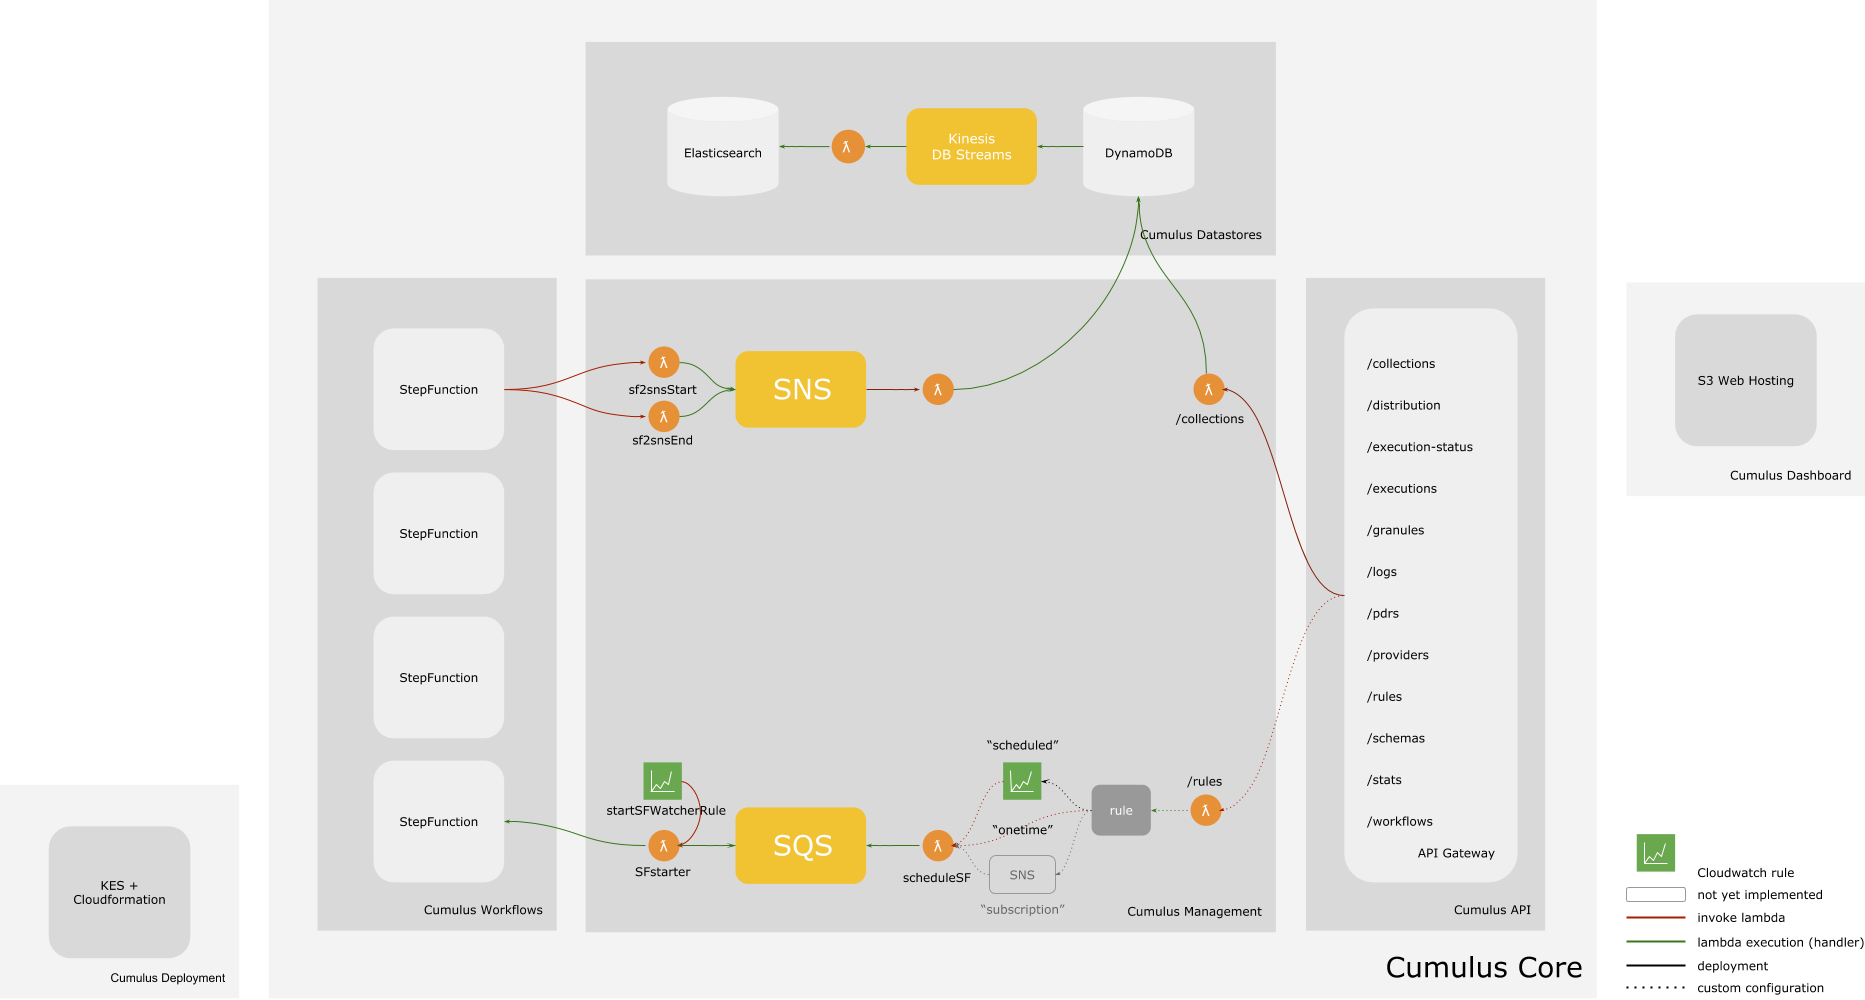
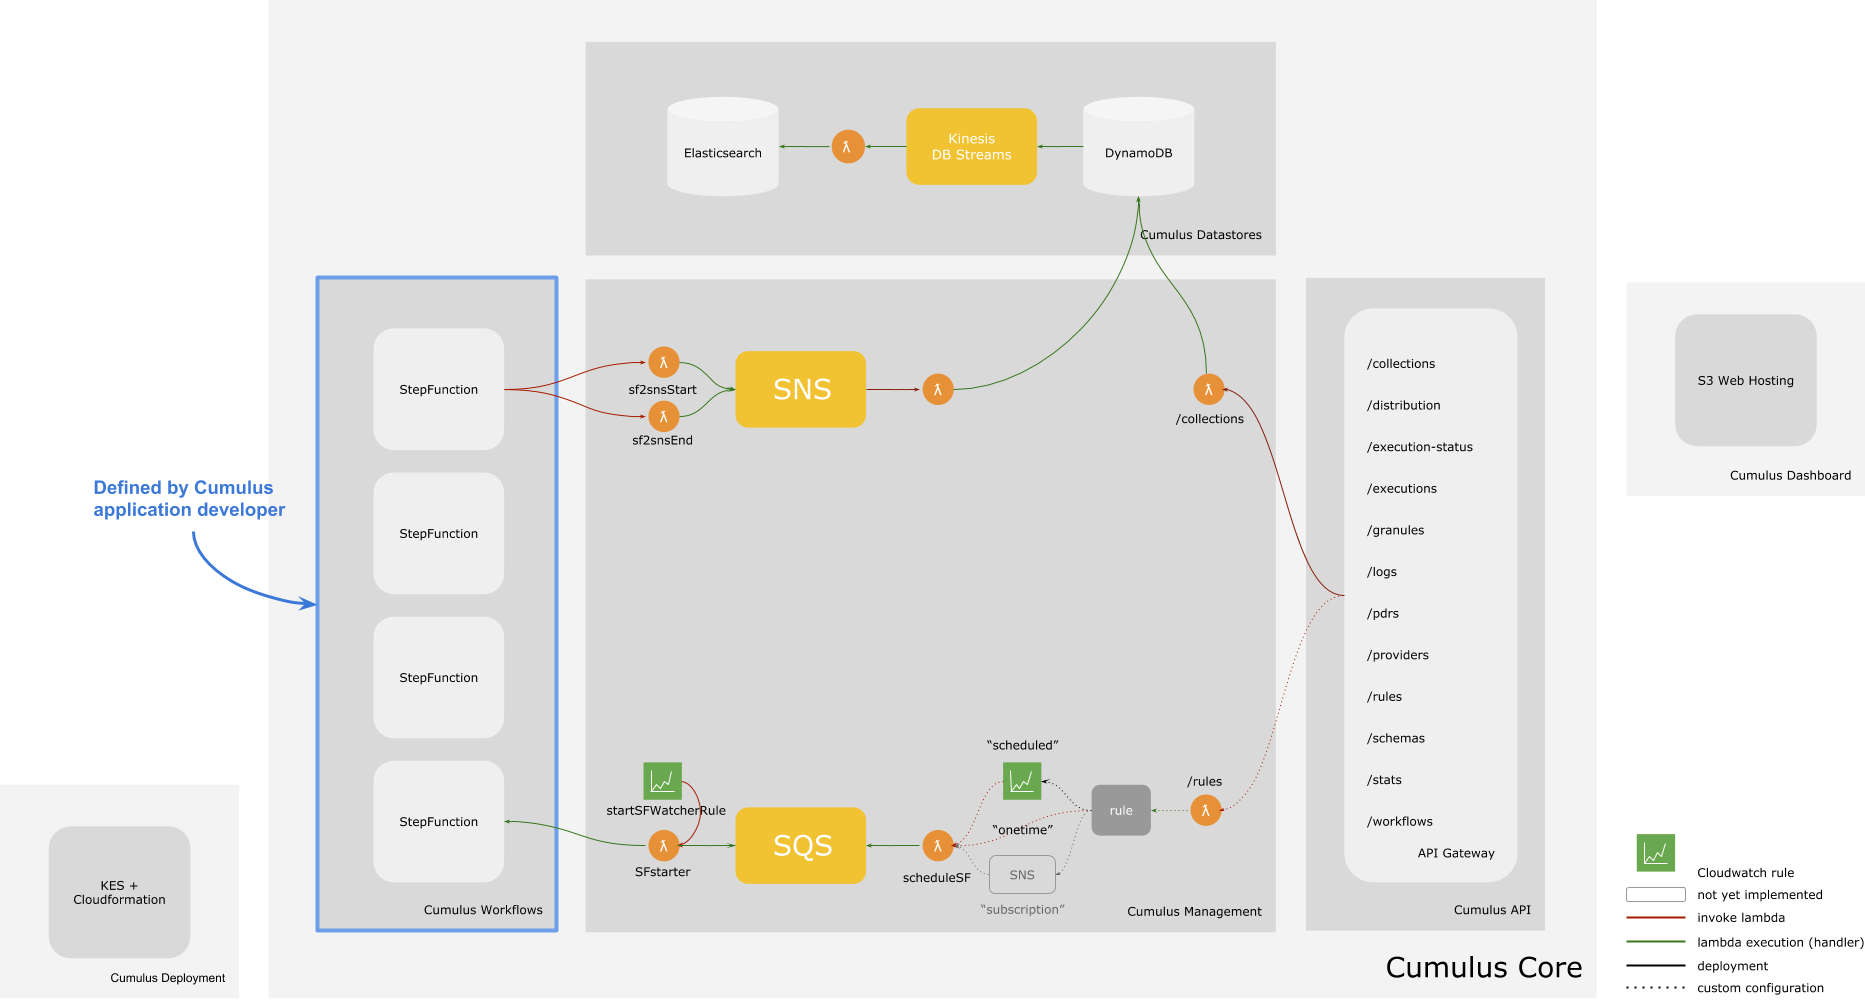
Add more basic annotation to arch diagram

diff --git a/docs/architecture.md b/docs/architecture.md
@@ -1,13 +1,26 @@
 # Cumulus Architecture
 
+Below, find a diagram with the components that comprise an instance of Cumulus.
+
+<img src="/images/cumulus-arch-diagram.png">
+
+While the internals are complex, the boxes represent components which are easy to understand:
+
+* Every Cumulus application requires it's own Cumulus deployment (lower left corner)
+* Every Cumulus deployment comes with:
+    * DynamoDB and ElasticSearch datastores
+    * an API Gateway for managing collections, providers, granules and other Cumulus resources, and,
+    * internal lambda functions and queues for managing Cumulus workflows
+* Every Cumulus application should define a set of workflows, which are deployed as AWS Step Functions along with all other AWS Cumulus resources.
+
+## Developing a Cumulus Application
+
 Cumulus is a collection of resources for Cumulus developers. These resources are:
 
 * `@cumulus/deployment`: A node module for creating a Cumulus deployment. A Cumulus deployment is comprised of 4 AWS Cloudformation stacks. Each Cumulus application will have it's own cloudformation stacks.
 * `@cumulus/api`: A node module for deploying the Cumulus API and other AWS resources required to run Cumulus workflows.
 * Node modules for tasks to be run as part of Cumulus Workflows, for example `@cumulus/parse-pdr`
 * [`cumulus-dashboard`](https://github.com/cumulus-nasa/cumulus-dashboard): Code to generate and deploy the dashboard for the Cumulus API.
-
-<img src="/images/cumulus-arch-diagram.png">
 
 ## Cloudformation Stacks
 
